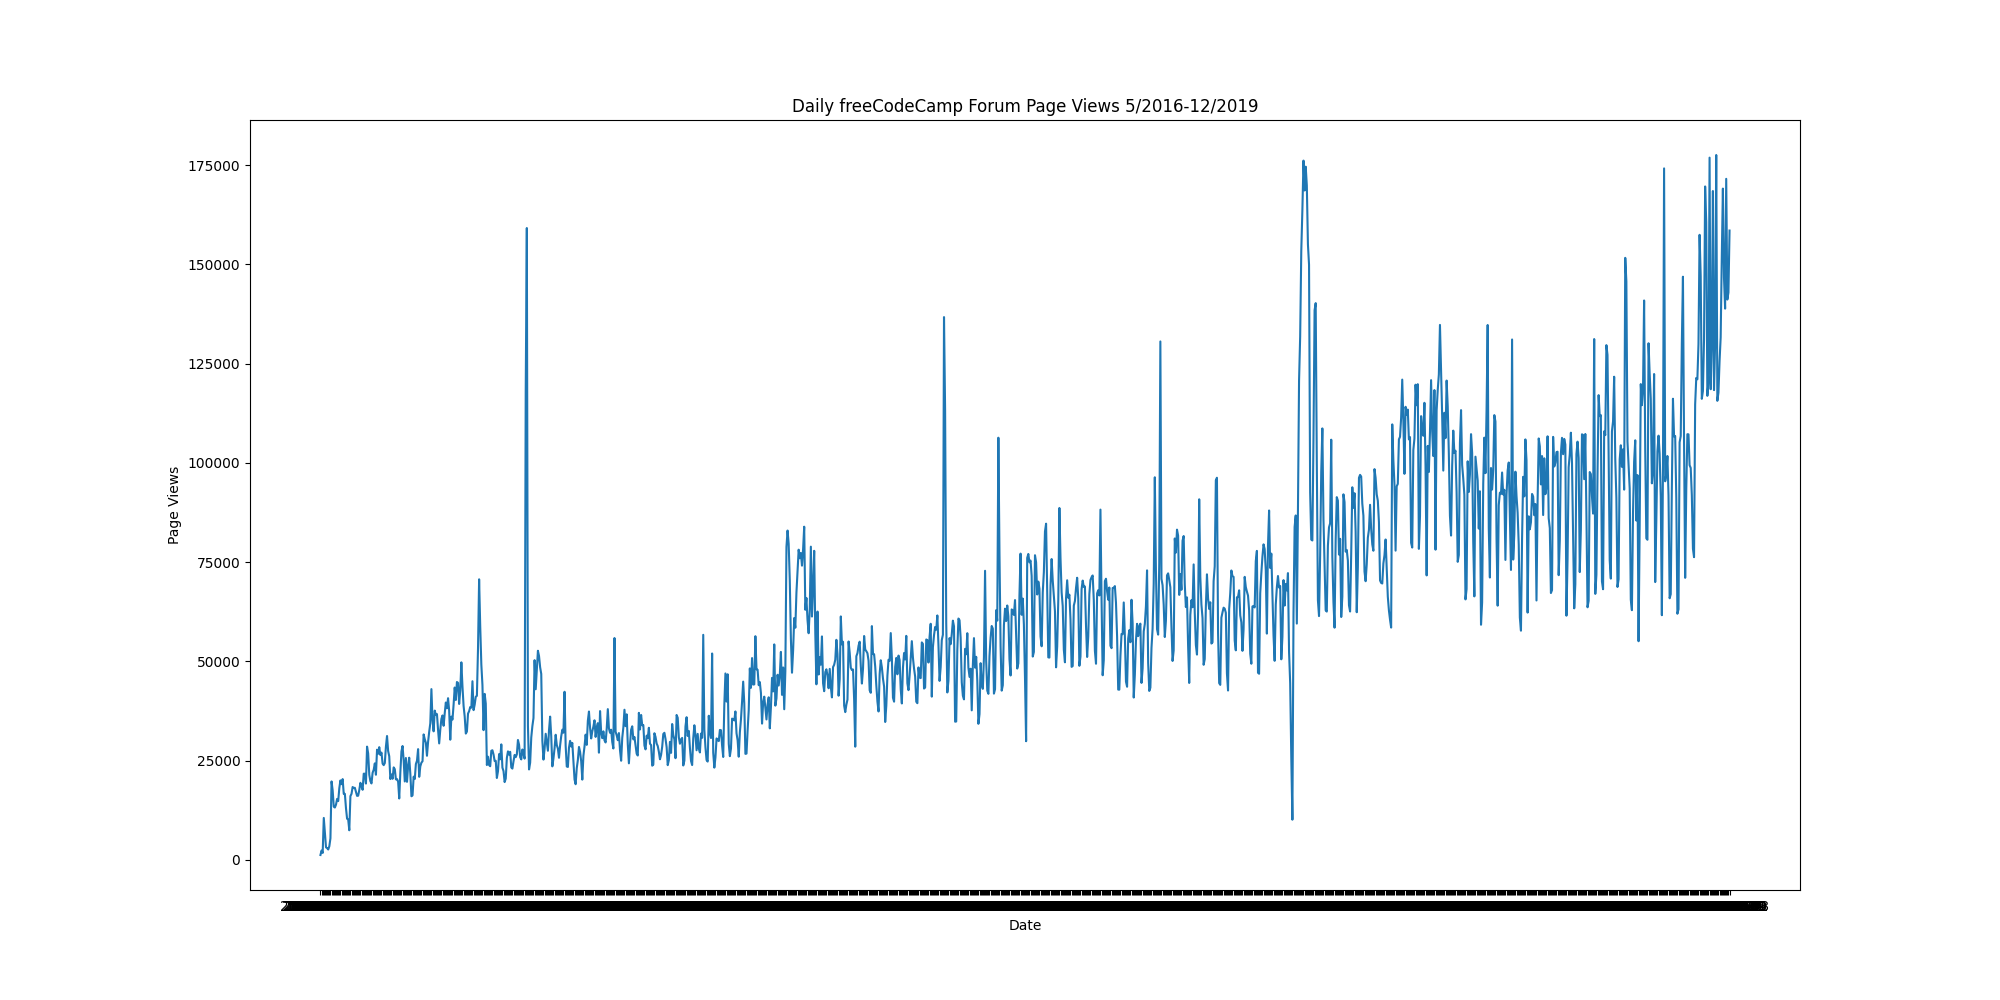
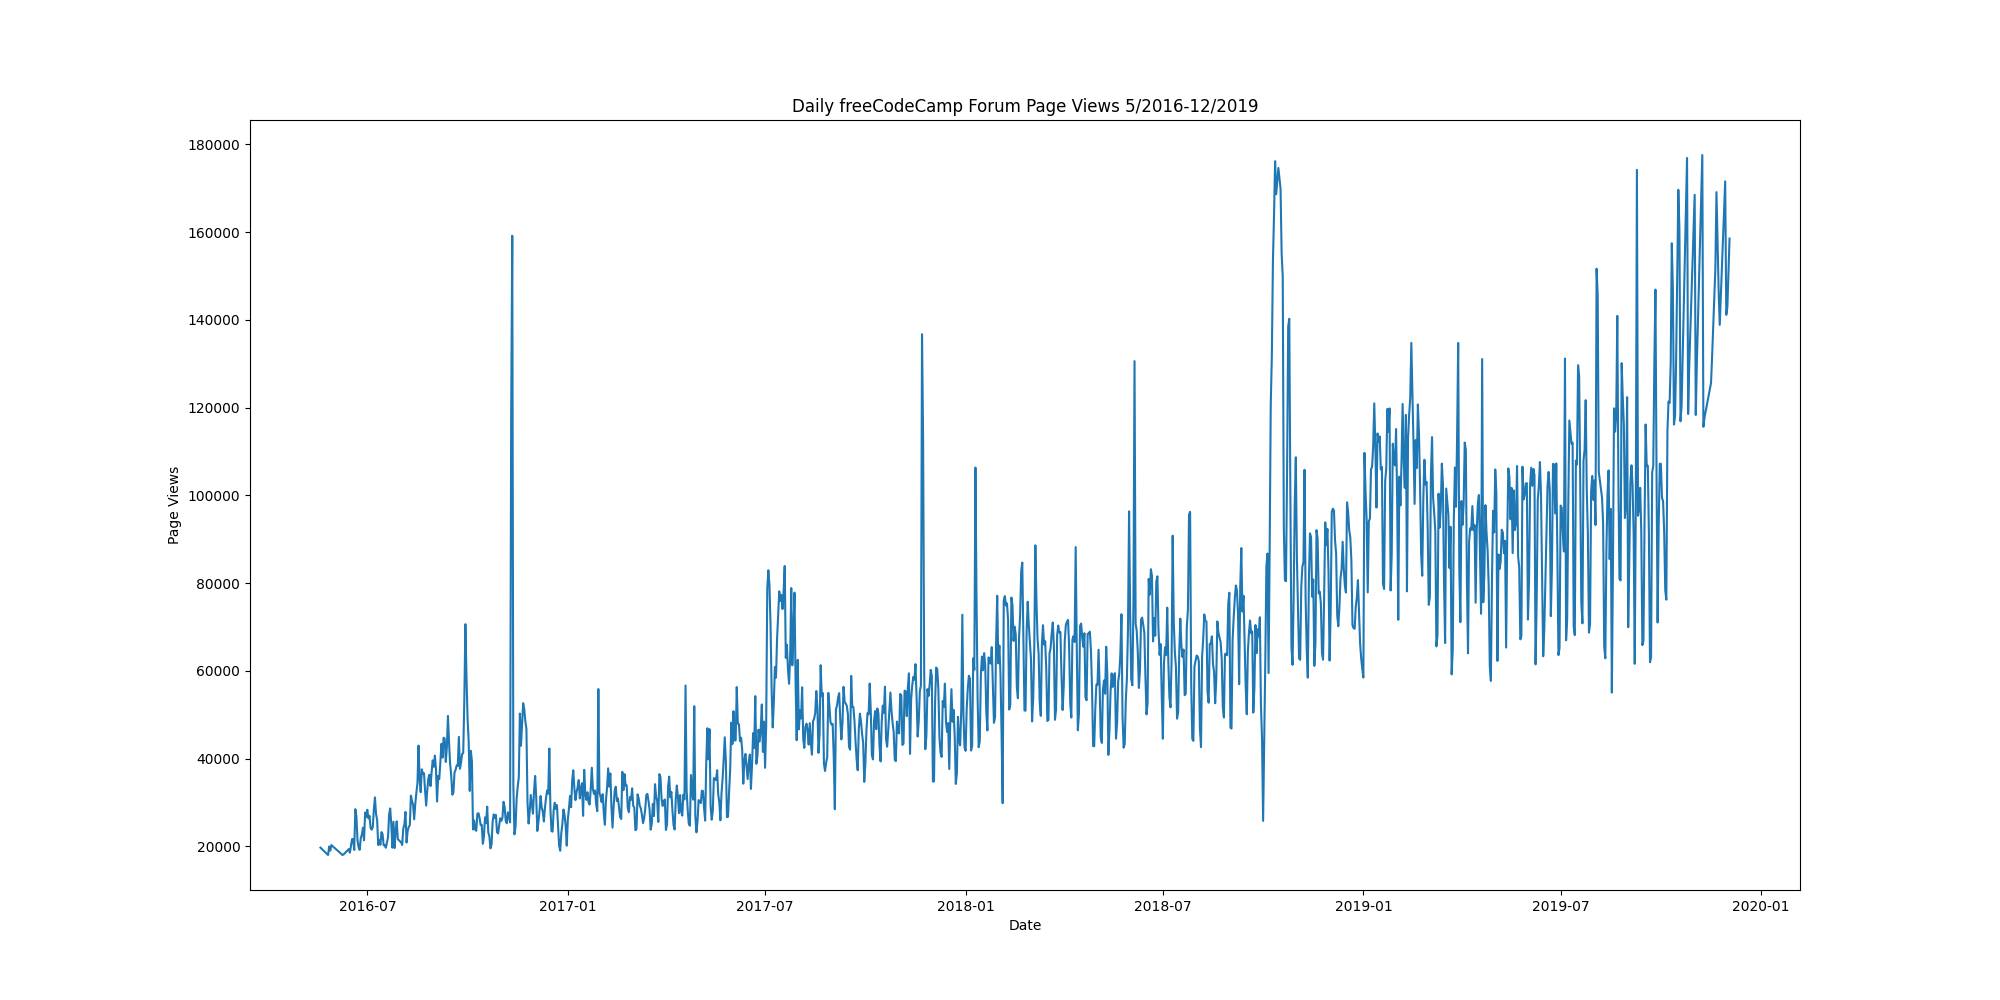
figuring out bar plots

diff --git a/main.py b/main.py
@@ -15,10 +15,18 @@ import pandas as pd
 import matplotlib.pyplot as plt
 from pandas.plotting import register_matplotlib_converters
 register_matplotlib_converters()
+import seaborn as sns
 
-df = pd.read_csv("fcc-forum-pageviews.csv").set_index("date")
-df = df[(df["value"]<= df["value"].quantile(0.975))]
+#read csv, parse dates, set index to date column
+df = pd.read_csv("fcc-forum-pageviews.csv")
+df["date"] = pd.to_datetime(df["date"])
+df = df.set_index("date")
 
+#clean data, removing upper 2.5% quantile and lower 2.5% quantile
+df = df[(df["value"]<= df["value"].quantile(0.975))
+       & (df["value"] >= df["value"].quantile(0.025))]
+
+#line plot
 fig, ax = plt.subplots(figsize=(20,10)) 
 line_plot = plt.plot(df.index, df["value"])
 plt.xlabel("Date")
@@ -26,4 +34,22 @@ plt.ylabel("Page Views")
 plt.title("Daily freeCodeCamp Forum Page Views 5/2016-12/2019")
 fig.savefig('line_plot.png')
 
-#print(plt.show)
+#bar plot data
+df_bar = df
+df_bar["year"] = df_bar.index.year
+df_bar["month"] = df_bar.index.month_name()
+df_bar = df_bar.groupby(["year", "month"], as_index=False, sort=False)["value"].mean()
+df_pivot = df_bar.pivot("year", "month", "value")
+#months = ["January", "February", "March", "April", "May", "June", "July", "August", "SEpt"]
+print (df_pivot.head(24))
+
+#bar plot
+fig,ax = plt.subplots()
+ax = df_pivot.plot(kind='bar', figsize = (16,9), xlabel = 'Year', ylabel = 'Average Page Views')
+#ax = df_bar.plot.bar(rot = 0)
+#df_pivot.plot(kind = "bar")
+#plt.xlabel("Years")
+#plt.ylabel("Average Page Views")
+#plt.title("Daily freeCodeCamp Forum Page Views 5/2016-12/2019")
+#plt.legend()
+fig.savefig('bar_plot.png')

diff --git a/time_series_visualizer.py b/time_series_visualizer.py
@@ -5,20 +5,22 @@ from pandas.plotting import register_matplotlib_converters
 register_matplotlib_converters()
 
 # Import data (Make sure to parse dates. Consider setting index column to 'date'.)
-df = pd.read_csv("fcc-forum-pageviews.csv").set_index("date")
+df = pd.read_csv("fcc-forum-pageviews.csv")
+df["date"] = pd.to_datetime(df["date"])
+df = df.set_index("date")
 
 # Clean data
-df = df[(df["value"]<= df["value"].quantile(0.975))]
+df = df[(df["value"]<= df["value"].quantile(0.975))
+       & df["value"] >= df["value"].quantile(0.025)]
 
 
 def draw_line_plot():
-    # Draw line plot
+    fig, ax = plt.subplots(figsize=(20,10)) 
+    line_plot = plt.plot(df.index, df["value"])
+    plt.xlabel("Date")
+    plt.ylabel("Page Views")
+    plt.title("Daily freeCodeCamp Forum Page Views 5/2016-12/2019")
     
-
-
-
-
-
     # Save image and return fig (don't change this part)
     fig.savefig('line_plot.png')
     return fig
